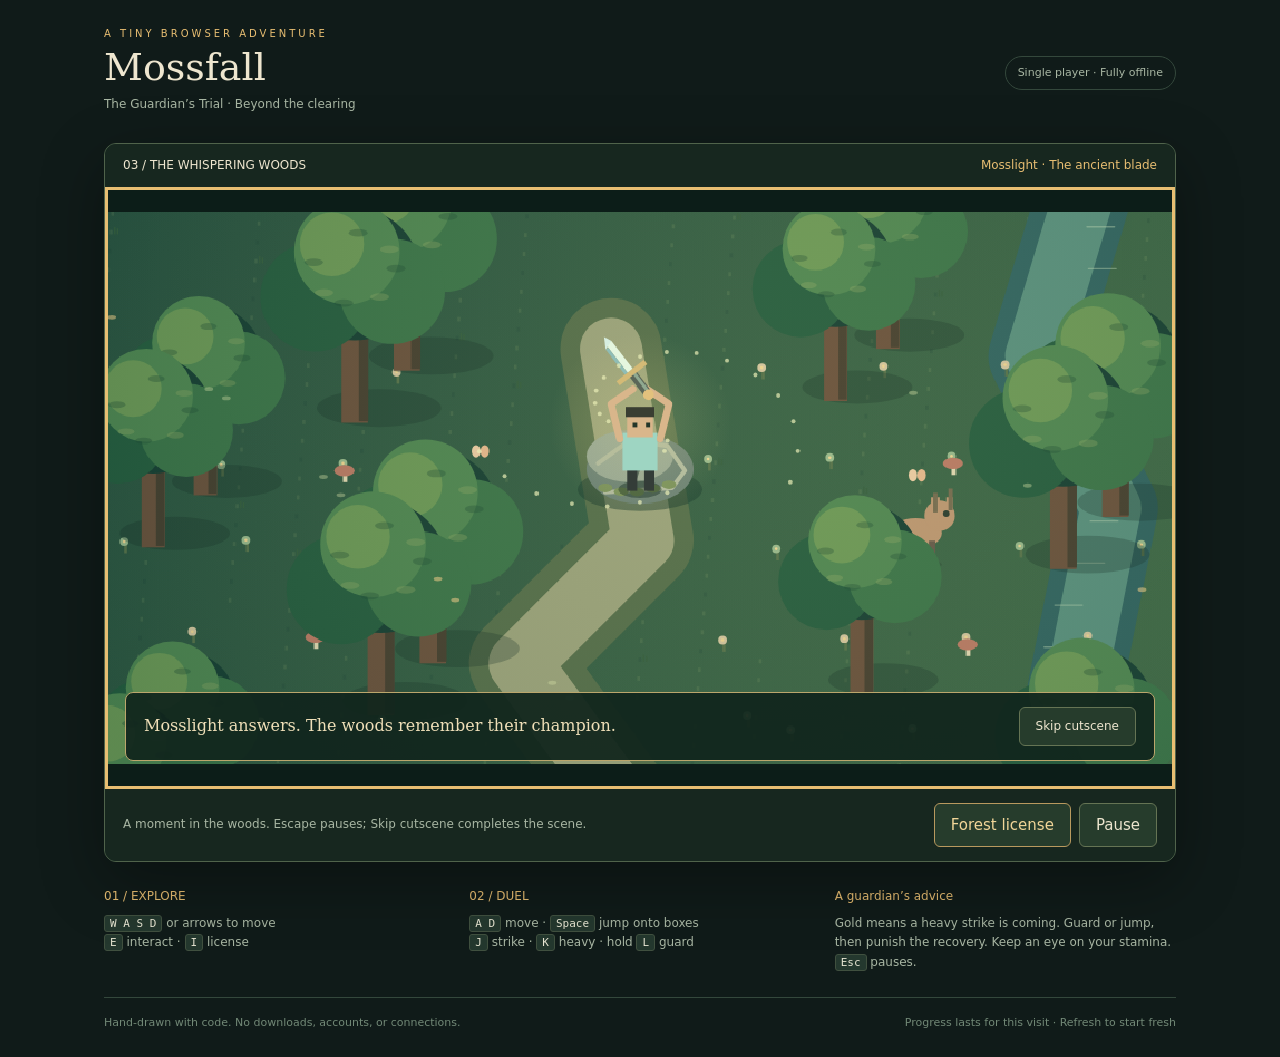
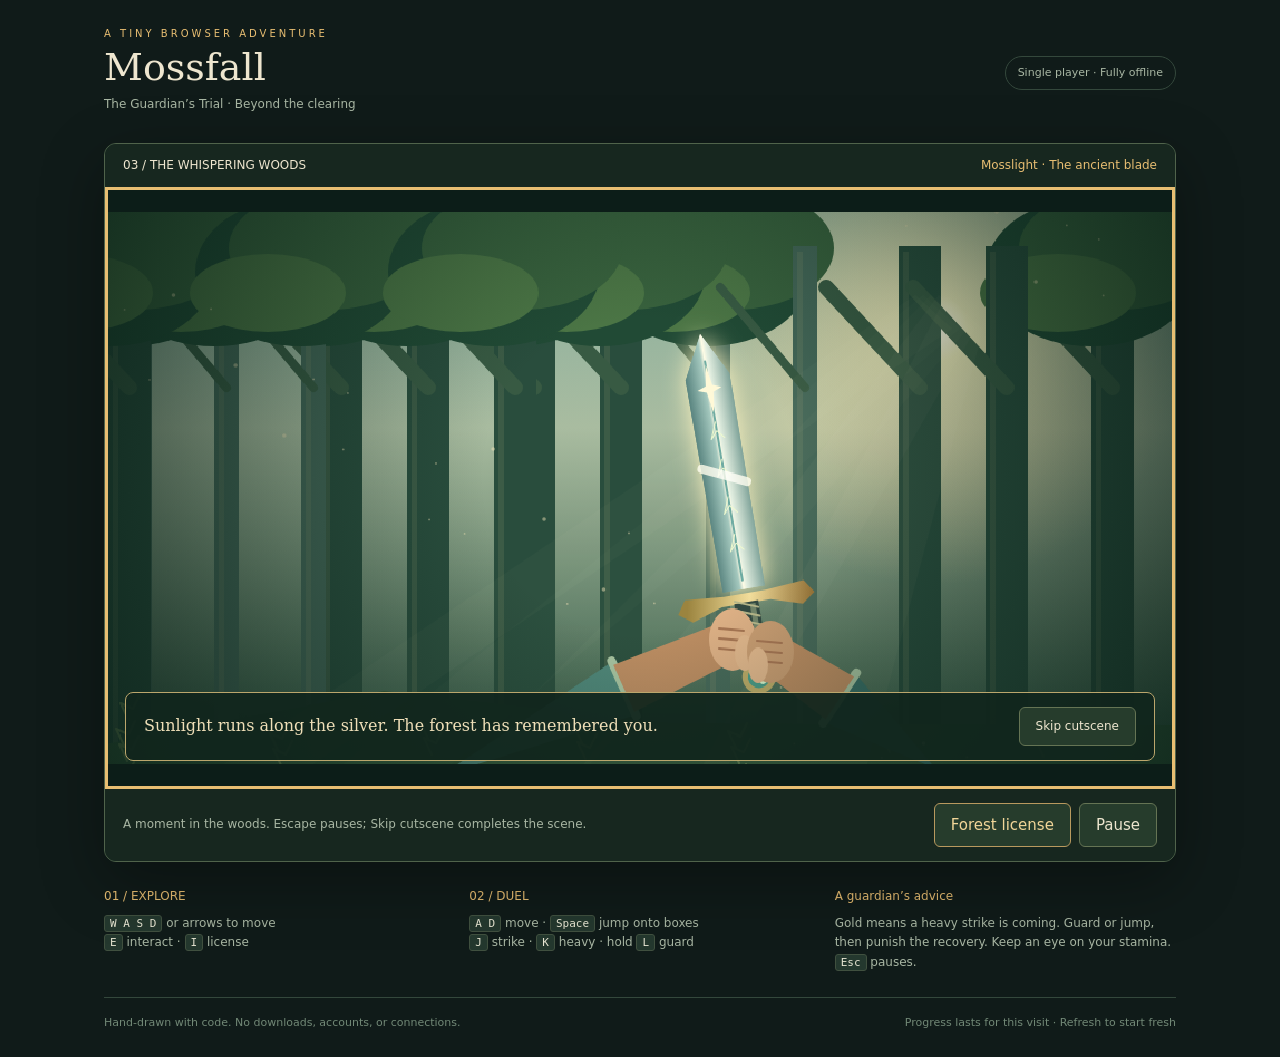
Open arena center and add first-person sword cinematic

Changed region(s): [[0.0625, 0.1873, 0.9375, 0.7493]]

diff --git a/index.html b/index.html
@@ -35,7 +35,8 @@ let player,enemy;
 let region='village',licensed=false,ambientNotice='',noticeUntil=0;
 let swordOwned=false,cutscene=null;
 const swordStone={x:495,y:205};
-const platforms=[{x:175,y:380,w:100},{x:430,y:344,w:100},{x:685,y:380,w:100}];
+const platforms=[{x:175,y:380,w:100},{x:685,y:380,w:100}];
+const SWORD_SCENE_SECONDS=10;
 const FIGHT_GROUND=440,FIGHT_RADIUS=18,JUMP_SPEED=480;
 
 const gate={x:480,y:112};
@@ -299,15 +300,15 @@ function startSwordCutscene(){
 function setCutsceneCaption(text){if(cutscene.caption!==text){cutscene.caption=text;document.querySelector('#cutscene-caption').textContent=text}}
 function updateSwordCutscene(dt){
  cutscene.elapsed+=dt;const t=cutscene.elapsed;
- const walk=clamp(t/1.25,0,1),ease=walk*walk*(3-2*walk);
- hero.x=cutscene.startX+(swordStone.x-cutscene.startX)*ease;
- hero.y=cutscene.startY+(swordStone.y+14-cutscene.startY)*ease;
- if(t<1.25)setCutsceneCaption('The forest grows still. A light stirs inside the stone.');
- else if(t<3)setCutsceneCaption('You grip the hilt. The roots hold fast…');
- else if(t<4.2)setCutsceneCaption('One last pull — and the ancient seal breaks.');
- else setCutsceneCaption('Mosslight answers. The woods remember their champion.');
- if(t>=3&&t<4.2)shake=2;
- if(t>=6.6)finishSwordCutscene();
+ // Freeze overworld position while the camera takes the traveler's point of view.
+ hero.x=swordStone.x;hero.y=swordStone.y+45;
+ if(t<1.5)setCutsceneCaption('Through your eyes: an ancient blade waits beneath the canopy.');
+ else if(t<3.3)setCutsceneCaption('Your hands close around the worn leather hilt.');
+ else if(t<5.2)setCutsceneCaption('The stone resists. Light begins to stir beneath your fingers.');
+ else if(t<6.4)setCutsceneCaption('You pull. The seal breaks — and Mosslight comes free.');
+ else if(t<7.5)setCutsceneCaption('You raise the blade toward a break in the canopy.');
+ else setCutsceneCaption('Sunlight runs along the silver. The forest has remembered you.');
+ if(t>=SWORD_SCENE_SECONDS)finishSwordCutscene();
 }
 function finishSwordCutscene(){
  if(mode!=='cutscene'||modal)return;
@@ -340,24 +341,95 @@ function drawSwordStone(){
   if(mode!=='cutscene')drawBlade(x,y-49,.75);
  }
 }
-function drawSwordCutscene(){
- const t=cutscene.elapsed,{x,y}=swordStone;
- ctx.save();ctx.translate(480,270);ctx.scale(1.3,1.3);ctx.translate(-x,-(y+6));drawForest();
- const strain=t>1.25&&t<3?Math.sin(t*27)*1.3:0;
- const lift=clamp((t-3)/1.2,0,1),poseY=hero.y-lift*12;
- littlePerson(hero.x+strain,poseY,'#9ed5c2',false,t<1.25);
- if(t>=1.25){
-  const celebration=clamp((t-4.2)/.35,0,1);
-  const gripY=y-49-lift*20+(poseY-65-(y-69))*celebration;
-  path([[hero.x-14,poseY-30],[hero.x-20,poseY-54],[x-5+strain,gripY+4]],5,'#d9b68b');
-  path([[hero.x+14,poseY-30],[hero.x+20,poseY-54],[x+5+strain,gripY+4]],5,'#d9b68b');
-  drawBlade(x+strain,gripY,.75,clamp((t-4.05)/.4,0,1)*Math.PI);
- }else drawBlade(x,y-49,.75);
-
- if(t>2){const glow=clamp((t-2)/2,0,1);for(let i=0;i<24;i++){const a=i*Math.PI*2/24+t*.3,r=20+((t*35+i*7)%100);circle(x+Math.cos(a)*r,y-40+Math.sin(a)*r*.7,1.5,'#e8edb5'+Math.round(glow*180).toString(16).padStart(2,'0'))}}
- ctx.restore();rect(0,0,960,22,'#0c1d18');rect(0,518,960,22,'#0c1d18');
- if(t>=3&&t<3.35){ctx.fillStyle=`rgba(255,242,187,${(1-(t-3)/.35)*.35})`;ctx.fillRect(0,0,960,540)}
+function smoothStep(a,b,t){const p=clamp((t-a)/(b-a),0,1);return p*p*(3-2*p)}
+function polygon(points,color){ctx.fillStyle=color;ctx.beginPath();points.forEach(([x,y],i)=>i?ctx.lineTo(x,y):ctx.moveTo(x,y));ctx.closePath();ctx.fill()}
+function sceneBackdrop(t,tilt){
+ const sky=ctx.createLinearGradient(0,0,0,540);sky.addColorStop(0,'#7eaa9d');sky.addColorStop(.4,'#a9bca0');sky.addColorStop(1,'#234b38');ctx.fillStyle=sky;ctx.fillRect(0,0,960,540);
+ const sunX=745,sunY=87+tilt*40;
+ const sun=ctx.createRadialGradient(sunX,sunY,3,sunX,sunY,230);sun.addColorStop(0,'#fffbe8');sun.addColorStop(.12,'#fff3bdcc');sun.addColorStop(1,'#eed29700');ctx.fillStyle=sun;ctx.fillRect(420,0,540,440);
+ // Trees at different distances frame a small break in the canopy.
+ for(let i=0;i<14;i++){
+  const x=(i*173+20)%960,far=i%3===0,w=far?22:38;
+  rect(x,25+tilt*28,w,520,far?'#436657':'#294d3d');rect(x+4,30+tilt*28,5,510,'#85916b33');
+  path([[x+w/2,150+tilt*30],[x-65,60+tilt*30]],far?8:14,'#385a43');
+  if(x<610||x>825){ellipse(x,26+tilt*50,95,67,'#214a35');ellipse(x+25,5+tilt*50,90,55,'#38613d');ellipse(x-30,45+tilt*50,70,35,'#4b7545')}
+ }
+ polygon([[0,420+tilt*80],[250,352+tilt*100],[510,381+tilt*100],[960,403+tilt*80],[960,540],[0,540]],'#345a3c');
+ for(let i=0;i<38;i++){const x=(i*137+21)%960,y=413+(i*41)%125+tilt*50;path([[x,y+15],[x-7,y],[x+4,y+5],[x+10,y-7]],2,'#638153')}
+ ctx.save();ctx.globalCompositeOperation='screen';
+ for(let i=0;i<5;i++){const a=.025+Math.sin(t*.4+i)*.009;polygon([[sunX-18+i*7,sunY-30],[sunX+15+i*7,sunY],[110+i*140,570],[30+i*120,570]],`rgba(255,234,167,${a})`)}
+ ctx.restore();
+ for(let i=0;i<34;i++){const x=(i*113+Math.sin(t*.45+i)*18)%960,y=(i*67+t*(4+i%3))%540;circle(x,y,i%3===0?1.8:.9,'#f6e5b977')}
 }
+function sceneStone(yOffset,glow){
+ ctx.save();ctx.translate(0,yOffset);
+ ellipse(480,461,214,43,'#112e2880');
+ const rock=ctx.createLinearGradient(300,280,600,500);rock.addColorStop(0,'#a0ad99');rock.addColorStop(.45,'#728a7b');rock.addColorStop(1,'#394f48');
+ polygon([[279,400],[332,319],[437,284],[556,292],[632,348],[664,434],[577,485],[361,478]],rock);
+ polygon([[332,319],[437,284],[556,292],[599,333],[479,358],[370,350]],'#b6c0a4');
+ polygon([[479,358],[599,333],[632,348],[664,434],[577,485],[537,410]],'#617c6b');
+ path([[465,308],[481,327],[470,344],[494,364],[482,398]],4,'#304a42');
+ path([[480,329],[444,345],[427,365]],3,'#435e50');
+ path([[479,330],[508,318],[535,327]],3,'#526c5c');
+ ellipse(479,313,13,5,'#2c453b');
+ for(let i=0;i<14;i++){const x=310+i*23,y=421+Math.sin(i*1.9)*21;ellipse(x,y,16,7,i%2?'#728b4c':'#89a361')}
+ for(let i=0;i<6;i++){const x=367+i*38,y=381+Math.sin(i*.7)*18;path([[x,y],[x+6,y-12],[x+12,y],[x+4,y+3]],2,`rgba(210,236,172,${.12+glow*.8})`)}
+ ctx.restore();
+}
+function sceneSword(x,y,angle,shine,t){
+ ctx.save();ctx.translate(x,y);ctx.rotate(angle);
+ // A full-size blade, seen directly in front of the traveler.
+ const steel=ctx.createLinearGradient(-22,0,22,0);steel.addColorStop(0,'#729990');steel.addColorStop(.43,'#e2eee0');steel.addColorStop(.5,'#fffce6');steel.addColorStop(.58,'#a4c8be');steel.addColorStop(1,'#507c78');
+ if(shine>0){ctx.save();ctx.shadowColor='#fff4c0';ctx.shadowBlur=22*shine;polygon([[-19,40],[-20,233],[0,272],[20,233],[19,40]],steel);ctx.restore()}
+ polygon([[-19,40],[-20,233],[0,272],[20,233],[19,40]],steel);
+ path([[0,48],[0,247]],2,'#6eaba2');
+ for(let i=0;i<4;i++){const yy=75+i*34;path([[-6,yy],[0,yy+7],[6,yy],[0,yy+15]],1,`rgba(240,251,208,${.3+shine*.65})`)}
+ const gold=ctx.createLinearGradient(-55,0,55,20);gold.addColorStop(0,'#9e793b');gold.addColorStop(.5,'#f4df9c');gold.addColorStop(1,'#9b843f');
+ polygon([[-62,27],[-50,18],[-22,27],[22,27],[50,18],[62,27],[54,39],[19,36],[-19,36],[-54,39]],gold);
+ rect(-11,-30,22,58,'#344a42');rect(-8,-29,5,55,'#73866b');
+ for(let i=0;i<7;i++)path([[-10,-26+i*8],[10,-18+i*8]],2,'#b7b78a');
+ circle(0,-40,15,'#bdac69');circle(0,-40,10,'#4c9c87');circle(-3,-44,3,'#d9f6cb');
+ if(shine>0){
+  const sweep=55+((t-7.5)*90)%195;
+  ctx.save();ctx.globalCompositeOperation='screen';path([[-19,sweep-9],[19,sweep+9]],8,`rgba(255,250,212,${shine*.8})`);ctx.restore();
+  const glintY=210+Math.sin(t)*15;const size=10+Math.sin(t*3)*3;
+  polygon([[0,glintY-size*2],[3,glintY-3],[size,glintY],[3,glintY+3],[0,glintY+size*2],[-3,glintY+3],[-size,glintY],[-3,glintY-3]],'#fff9d8');
+ }
+ ctx.restore();
+}
+function sceneHand(side,x,y,reveal){
+ const startX=side<0?-100:1060,hx=startX+(x-startX)*reveal,hy=630+(y-630)*reveal;
+ const baseX=side<0?120:880,baseY=605;
+ const dx=baseX-hx,dy=baseY-hy,len=Math.hypot(dx,dy)||1,nx=-dy/len,ny=dx/len;
+ const cuffX=hx+dx*.22,cuffY=hy+dy*.22;
+ polygon([[baseX-65,baseY],[baseX+65,baseY],[cuffX+nx*26,cuffY+ny*26],[cuffX-nx*26,cuffY-ny*26]],side<0?'#508779':'#396e65');
+ path([[cuffX-nx*27,cuffY-ny*27],[cuffX+nx*27,cuffY+ny*27]],8,'#a7c3a0');
+ polygon([[cuffX+nx*23,cuffY+ny*23],[hx+nx*18,hy+ny*18],[hx-nx*18,hy-ny*18],[cuffX-nx*23,cuffY-ny*23]],'#bc8d62');
+ ellipse(hx,hy,21,28,side<0?'#ddb085':'#c99d72');
+ for(let i=0;i<3;i++)path([[hx-12,hy-10+i*9],[hx+10,hy-8+i*9]],2,'#a77653');
+ ellipse(hx-side*11,hy+12,9,16,'#e1b78c');
+}
+function drawSwordCutscene(){
+ const t=cutscene.elapsed,approach=smoothStep(0,1.5,t),pull=smoothStep(5.2,6.3,t),raise=smoothStep(6.4,7.5,t),sun=smoothStep(7.5,8.3,t);
+ sceneBackdrop(t,raise);
+ // Camera leans toward the stone, then follows the blade up into the sunlight.
+ ctx.save();ctx.translate(480,270);ctx.scale(.88+approach*.12,.88+approach*.12);ctx.translate(-480,-270);
+ const strain=t>3.3&&t<5.2?Math.sin(t*34)*1.6:0;
+ const hiltX=480+raise*100+strain,hiltY=147-pull*85+raise*338;
+ const angle=raise*(Math.PI-.17);
+ sceneSword(hiltX,hiltY,angle,sun,t);
+ sceneStone(pull*90+raise*220,smoothStep(3.3,5.2,t)*(1-raise));
+ const hands=smoothStep(1.5,2.7,t);
+ // As the blade turns upright, both hands follow its leather grip.
+ sceneHand(-1,hiltX-17,hiltY+6,hands);
+ sceneHand(1,hiltX+17,hiltY+17,hands);
+ if(t>5.2&&t<6.5){const strength=Math.sin(clamp((t-5.2)/1.3,0,1)*Math.PI);ctx.save();ctx.globalCompositeOperation='screen';for(let i=0;i<24;i++){const a=i*2.4,r=(t-5.2)*110+(i%4)*15;circle(480+Math.cos(a)*r,330+Math.sin(a)*r*.5,1.8,`rgba(235,245,176,${strength*.8})`)}ctx.restore()}
+ ctx.restore();
+ const vignette=ctx.createRadialGradient(480,260,140,480,260,560);vignette.addColorStop(0,'#071b1400');vignette.addColorStop(1,'#071b14bb');ctx.fillStyle=vignette;ctx.fillRect(0,0,960,540);
+ const fade=1-smoothStep(0,.55,t)+smoothStep(9.65,10,t);if(fade>0){ctx.fillStyle=`rgba(12,29,24,${clamp(fade,0,1)})`;ctx.fillRect(0,0,960,540)}
+ rect(0,0,960,22,'#0c1d18');rect(0,518,960,22,'#0c1d18');
+}
+
 function drawCrate(p){
  const h=FIGHT_GROUND-p.y;
  ellipse(p.x+p.w/2,445,p.w*.58,9,'#18362c55');rect(p.x,p.y,p.w,h,'#75553c');

diff --git a/tests/test_game.py b/tests/test_game.py
@@ -46,6 +46,7 @@ with sync_playwright() as pw:
     page.get_by_role('button',name='Accept the challenge').click()
     page.wait_for_function('countdown<=0')
     check('Accepting challenge begins live duel',page.evaluate("mode==='fight' && countdown<=0"))
+    check('Arena has two side crates and an open center',page.evaluate('platforms.length===2 && !platforms.some(p=>p.x<480&&p.x+p.w>480)'))
     check('Duel spawns clear of solid crates',page.evaluate('![player,enemy].some(f=>platforms.some(p=>overPlatform(f,p)&&f.y>p.y))'))
     page.keyboard.down('d');page.wait_for_function('Math.abs(player.x-enemy.x)<70');page.keyboard.up('d')
     page.wait_for_function('Math.abs(player.y-enemy.y)<40')
@@ -53,6 +54,7 @@ with sync_playwright() as pw:
     for i in range(4):
         page.keyboard.press('j');page.wait_for_timeout(550)
     check('Keyboard attacks damage opponent',page.evaluate('enemy.hp')<hp)
+    page.wait_for_function('player.hp<100',timeout=8000)
     check('Opponent AI approaches and attacks',page.evaluate('player.hp<100'))
     page.keyboard.press('Escape')
     check('Escape pauses and opens pause dialog',page.evaluate('paused') and page.locator('#overlay').is_visible())
@@ -107,7 +109,7 @@ with sync_playwright() as pw:
       return {wall,landed,rejump,stepOff,separation,allTops};
     }''')
     for name,ok in physics.items():check('Platform mechanic: '+name,ok)
-    page.evaluate("player.x=480;player.y=344;player.vy=0;enemy.x=580;enemy.face=-1;enemy.cool=0;paused=false")
+    page.evaluate("player.x=225;player.y=380;player.vy=0;enemy.x=335;enemy.face=-1;enemy.cool=0;paused=false")
     page.wait_for_function('enemy.vy<0 || enemy.y<440')
     check('Rowan jumps toward elevated player',page.evaluate('enemy.vy<0 || enemy.y<440'))
     page.evaluate("paused=true;player.x=225;player.y=380;player.vy=0;player.action=null;player.stun=0;enemy.x=820;enemy.y=440;enemy.vy=0;texts=[];particles=[]")
@@ -157,7 +159,12 @@ with sync_playwright() as pw:
     t=page.evaluate('cutscene.elapsed');page.wait_for_timeout(200)
     check('Pause freezes sword cutscene',page.evaluate('cutscene.elapsed')==t)
     page.get_by_role('button',name='Resume',exact=True).click()
-    page.wait_for_function('cutscene && cutscene.elapsed>4.3')
+    page.wait_for_function('cutscene && cutscene.elapsed>4')
+    page.screenshot(path=str(shots/'sword-grip.png'),full_page=True)
+    check('Cutscene has not ended at the old duration',page.evaluate("cutscene.elapsed<6.6 && !swordOwned"))
+    page.wait_for_function('cutscene && cutscene.elapsed>8.4')
+    check('Sword presentation lasts about ten seconds',page.evaluate("SWORD_SCENE_SECONDS===10 && mode==='cutscene' && !swordOwned"))
+    check('Sunlight caption accompanies raised blade','Sunlight' in page.locator('#cutscene-caption').inner_text())
     page.screenshot(path=str(shots/'sword-cutscene.png'),full_page=True)
     page.wait_for_function("mode==='world' && swordOwned")
     check('Full cutscene awards sword',page.get_by_role('heading',name='Mosslight awakens.').is_visible())

diff --git a/README.md b/README.md
@@ -36,11 +36,11 @@ On-screen controls are available on small screens and touch devices.
 
 Explore a village with tiled cottages, smoking chimneys, flower beds, a lily pond, birch trees, drifting leaves, and butterflies. Mira the herbalist and Bram the woodcutter walk around the village and offer advice. Greet Pip the cat and Clover the chicken with **E** nearby to see their reactions.
 
-Approach Rowan at the stone circle and accept his challenge. Manage health and stamina, watch for gold heavy-attack wind-ups, and block or jump before counterattacking. Three solid wooden crates create raised fighting platforms. Jump onto or off them, guard on top, and use the height difference to evade attacks. Rowan can jump across the crates to pursue you. The duel ends in a knockout or after 90 seconds; the fighter with more health wins at timeout. A draw or defeat does not award a license.
+Approach Rowan at the stone circle and accept his challenge. Manage health and stamina, watch for gold heavy-attack wind-ups, and block or jump before counterattacking. Two solid wooden crates create raised fighting platforms on either side of an open center. Jump onto or off them, guard on top, and use the height difference to evade attacks. Rowan can jump across the crates to pursue you. The duel ends in a knockout or after 90 seconds; the fighter with more health wins at timeout. A draw or defeat does not award a license.
 
 Your first victory grants a signed **Forest Venture License**. Inspect it with **I**, then approach the north gate and press **E** to enter the Whispering Woods. Explore its winding trail, stream, mushrooms, and wildlife; greet Fern the deer or Ember the fox. Use **E** at the south trail sign to return to Mossfall. You may rematch Rowan, and later losses do not revoke your license.
 
-Follow the north forest trail to discover **Mosslight**, a sword embedded in a mossy stone. Press **E** nearby and choose **Pull the sword** for a short animated sequence: the traveler approaches, struggles with the hilt, breaks the seal, and raises the blade in a burst of light. You may pause with **Escape** or choose **Skip cutscene** to receive the sword immediately. The sword is carried visibly during exploration and can be inspected with the **Mosslight sword** button. It can only be claimed once per visit; training duels with Rowan remain unarmed.
+Follow the north forest trail to discover **Mosslight**, a sword embedded in a mossy stone. Press **E** nearby and choose **Pull the sword** for a roughly ten-second first-person sequence. See through the traveler’s eyes as your hands grip the hilt, strain against the stone, and pull the blade free. Raise Mosslight into a break in the canopy, where sunbeams, drifting dust, and a moving silver glint illuminate the blade. You may pause with **Escape** or choose **Skip cutscene** to receive the sword immediately. The sword is carried visibly during exploration and can be inspected with the **Mosslight sword** button. It can only be claimed once per visit; training duels with Rowan remain unarmed.
 
 ![Arena platforms](screenshots/platforms.png)
 
